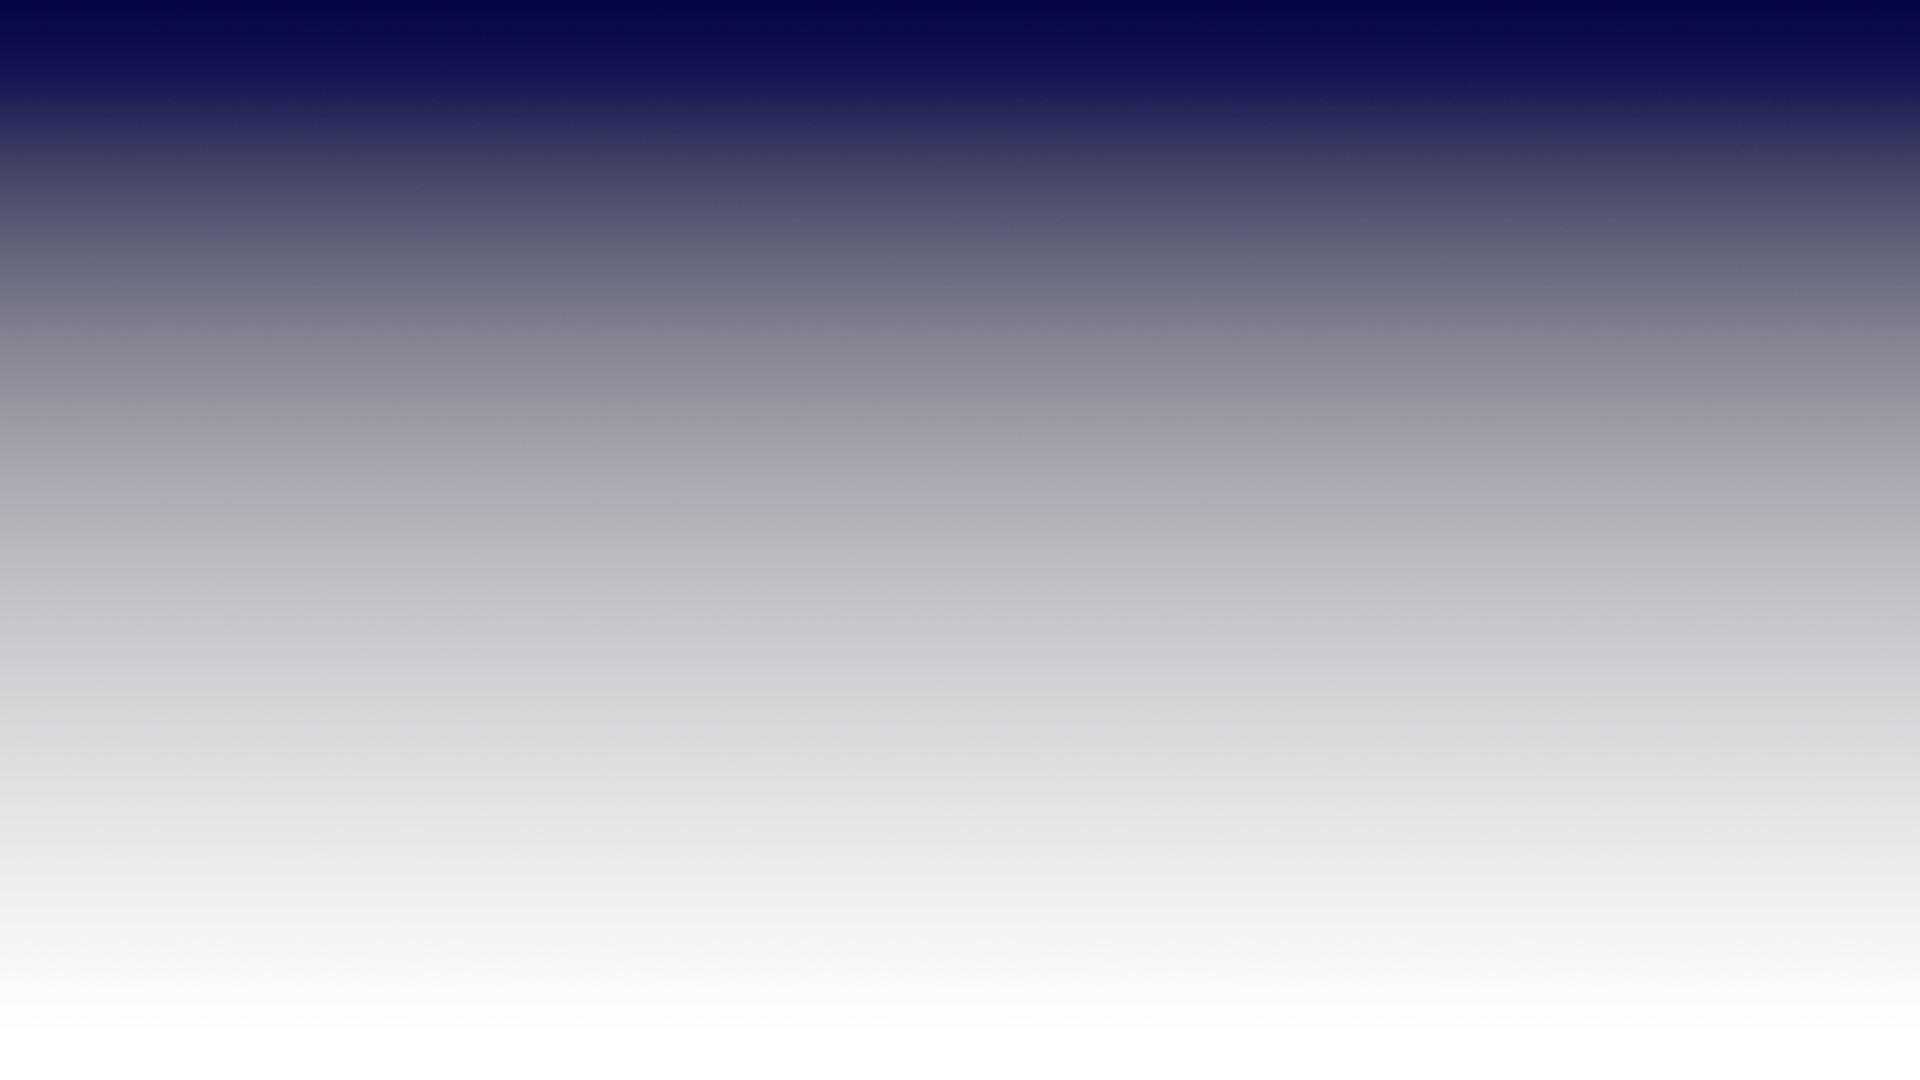
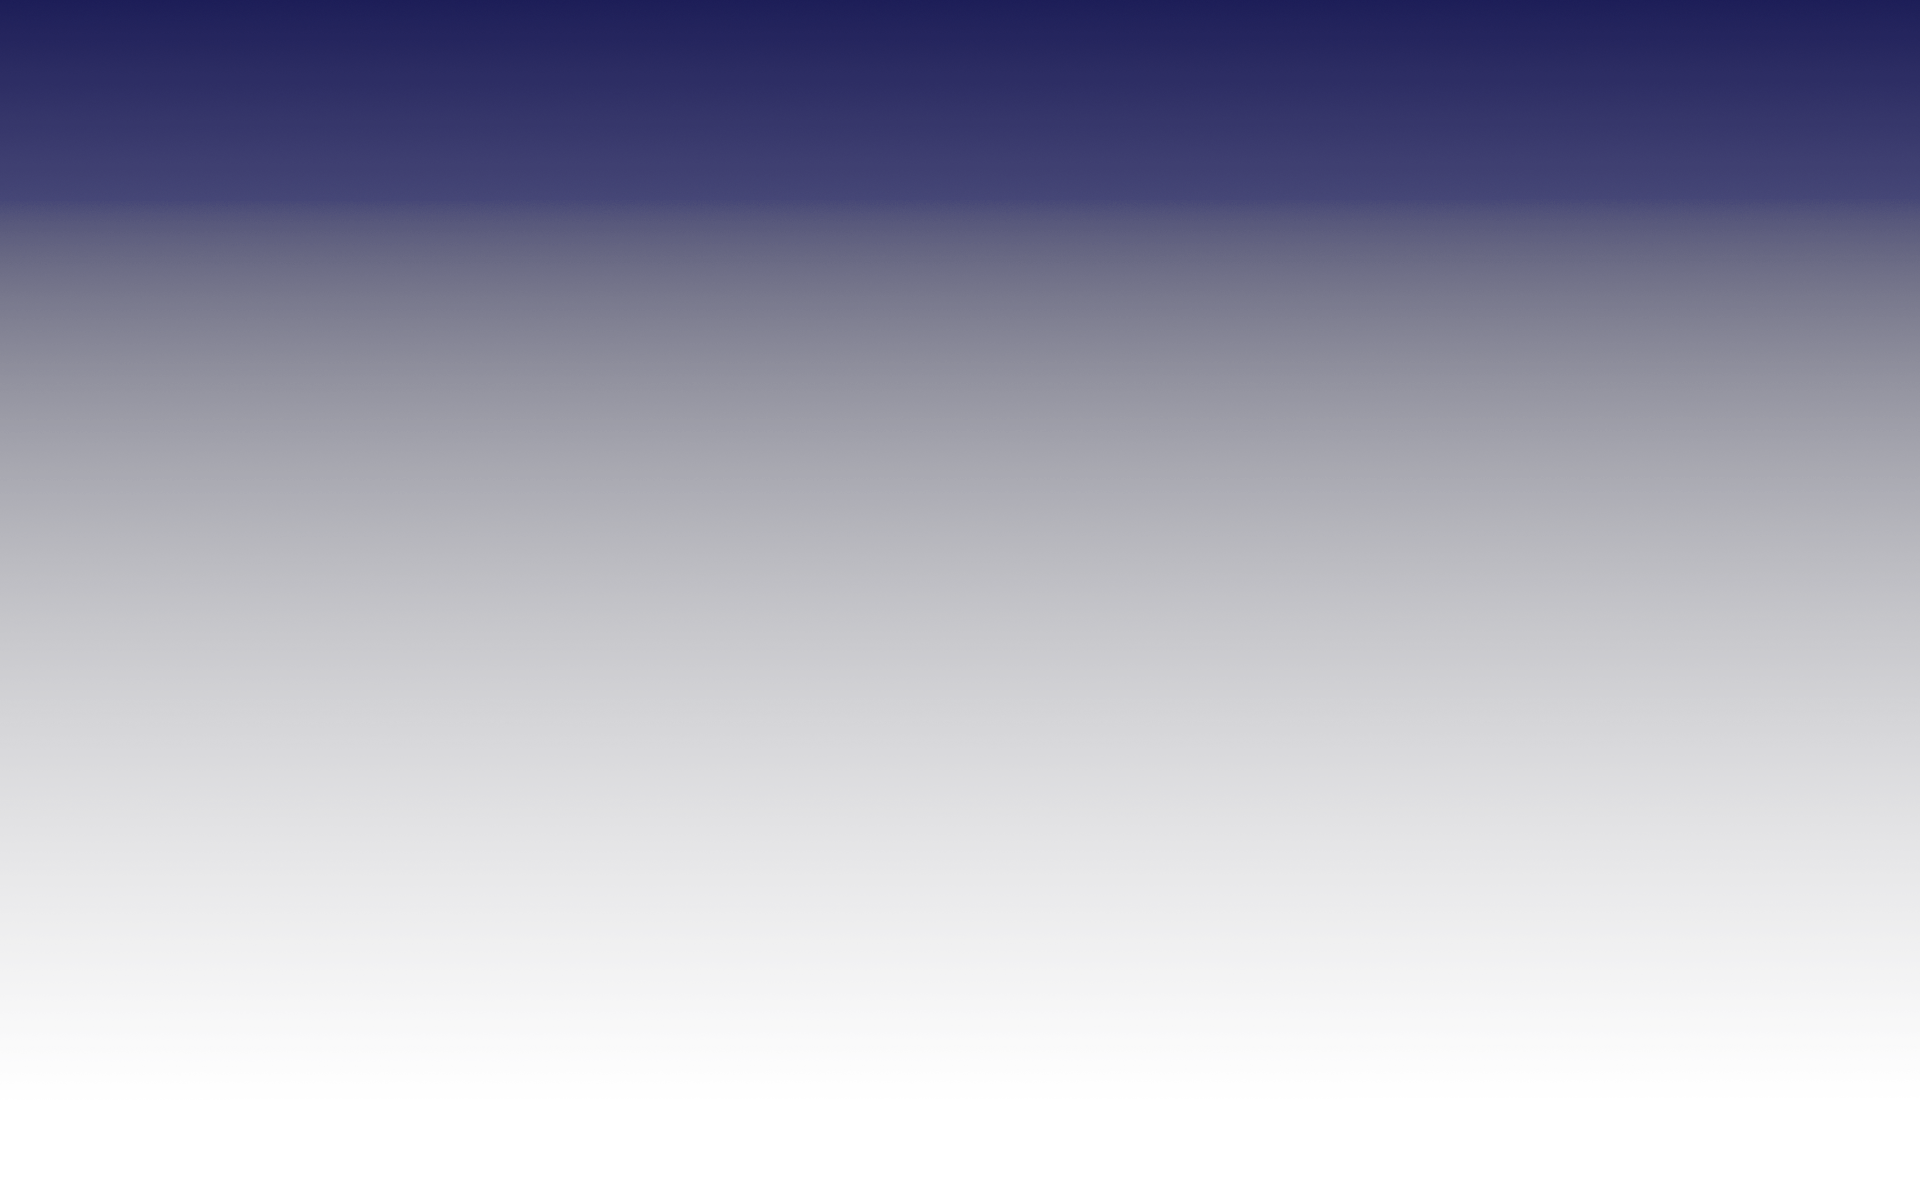
news update

Changed region(s): [[0.0, 0.0, 1.0, 0.0917]]

diff --git a/index.html b/index.html
@@ -21,7 +21,7 @@
         <div class="collapse navbar-collapse justify-content-center" id="navbarsExample08">
             <ul class="navbar-nav">
                 <li class="nav-item"> <a class="nav-link text-color-secondary  active" href="index.html">Home</a> </li>
-                <li class="nav-item"> <a class="nav-link text-color-secondary" href="news.html">News</a> </li>
+                <li class="nav-item"> <a class="nav-link text-color-secondary" href="#news-carousel">News</a> </li>
                 <li class="nav-item"> <a class="nav-link text-color-secondary" href="games.html">Games</a> </li>
                 <li class="nav-item"> <a class="nav-link text-color-secondary" href="players.html">Players</a> </li>
             </ul>
@@ -62,20 +62,13 @@
             </ol>
             <!-- News Items -->
             <div class="carousel-inner">
-                <div class="row">
-                    <div class="carousel-item active">
-                    <img class="col-12 col-md-4 col-lg-5 img-fluid d-inline ml-auto" src="assets/img/news_field.jpg" >
-                    <div class="col-12 col-md-8 col-lg-7 mr-auto text-color-light text-center">
-                        <h1 class="text-uppercase">Lorem ipsum</h1>
-                        <p>Lorem ipsum dolor sit amet, consectetur adipiscing elit</p>
+                <div class="row carousel-item active">
+                     <img class="col-12 img-fluid d-inline" src="assets/img/news_trophy.png"></div>
+                    <div class="text-block col-12">
+                        <h1 class="text-uppercase">This is the title</h1>
+                        <p>This is the text from the news. It will be long. This is the text from the news. It will be long. This is the text from the news. It will be long. This is the text from the news. It will be long. This is the text from the news. It will be long. This is the text from the news. It will be long. This is the text from the news. It will be long. This is the text from the news. It will be long. This is the text from the news. It will be long. This is the text from the news. It will be long. </p>
                     </div>
                 </div>
-                </div>
-                
-                <div class="carousel-item active"> <img> </div>
-                <div class="carousel-item active"> <img> </div>
-                <div class="carousel-item active"> <img> </div>
-                <div class="carousel-item active"> <img> </div>
             </div>
             <!-- News Arrows -->
             <a class="carousel-control-prev" href="#news-carousel" role="button" data-slide="prev"> <span class="carousel-control-prev-icon"></span></a>

diff --git a/games.html b/games.html
@@ -21,7 +21,7 @@
         <div class="collapse navbar-collapse justify-content-center" id="navbarsExample08">
             <ul class="navbar-nav">
                 <li class="nav-item"> <a class="nav-link text-color-secondary" href="index.html">Home</a> </li>
-                <li class="nav-item"> <a class="nav-link text-color-secondary" href="news.html">News</a> </li>
+                <li class="nav-item"> <a class="nav-link text-color-secondary" href="index.html#news-carousel">News</a> </li>
                 <li class="nav-item"> <a class="nav-link text-color-secondary active" href="games.html">Games</a> </li>
                 <li class="nav-item"> <a class="nav-link text-color-secondary" href="players.html">Players</a> </li>
             </ul>

diff --git a/players.html b/players.html
@@ -21,7 +21,7 @@
         <div class="collapse navbar-collapse justify-content-center" id="navbarsExample08">
             <ul class="navbar-nav">
                 <li class="nav-item"> <a class="nav-link text-color-secondary" href="index.html">Home</a> </li>
-                <li class="nav-item"> <a class="nav-link text-color-secondary" href="news.html">News</a> </li>
+                <li class="nav-item"> <a class="nav-link text-color-secondary" href="index.html#news-carousel">News</a> </li>
                 <li class="nav-item"> <a class="nav-link text-color-secondary" href="games.html">Games</a> </li>
                 <li class="nav-item"> <a class="nav-link text-color-secondary active" href="players.html">Players</a> </li>
             </ul>

diff --git a/assets/css/styles.css b/assets/css/styles.css
@@ -134,18 +134,23 @@ strong {
 /* news */
 
 #news-carousel {
-    background-image: url(../img/news_bluewhitefade.png);
-    background-size: contain;
     position: relative;
     color: #5af7dc;
 }
 
-#news-carousel img{
-    z-index: 0;
+#news-carousel img {
+    position: relative;
+    padding: 0!important;
+}
+
+#news-carousel .text-block {
+    position:absolute;
+    padding: 5%;
 }
 
 #news-carousel h1 {
     color: #ff16ff;
+    text-align: center;
 }
 
 
